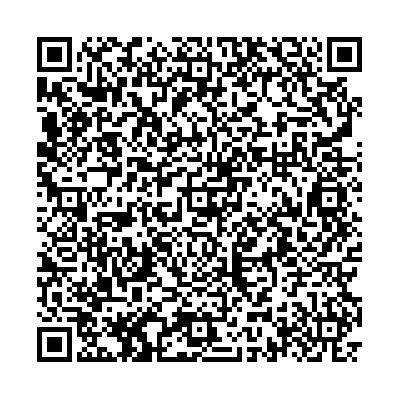
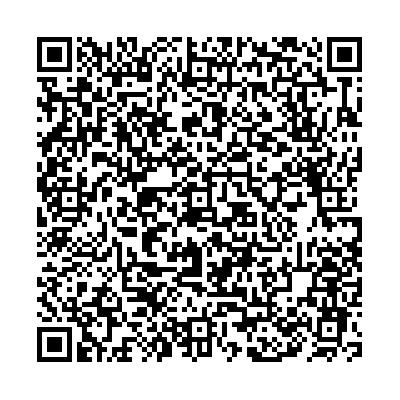
Fix VAC+REC

Changed region(s): [[0.09, 0.09, 0.93, 0.93]]

diff --git a/LB/1.0.0/README.md b/LB/1.0.0/README.md
@@ -1,6 +1,6 @@
 # LB - Lebanon
 
-* **JSON schema version**: 1.3.0
+* **JSON schema version**: 1.0.0
 
 Used for productive DCCs issuance
 * From: ?
@@ -18,9 +18,6 @@ Used for productive DCCs issuance
 
 ### Test
 
-![TEST-PCR-01.png](TEST-PCR-01.png)
-
-![TEST-PCR-02.png](TEST-PCR-02.png)
 
 ### Recovery
 
